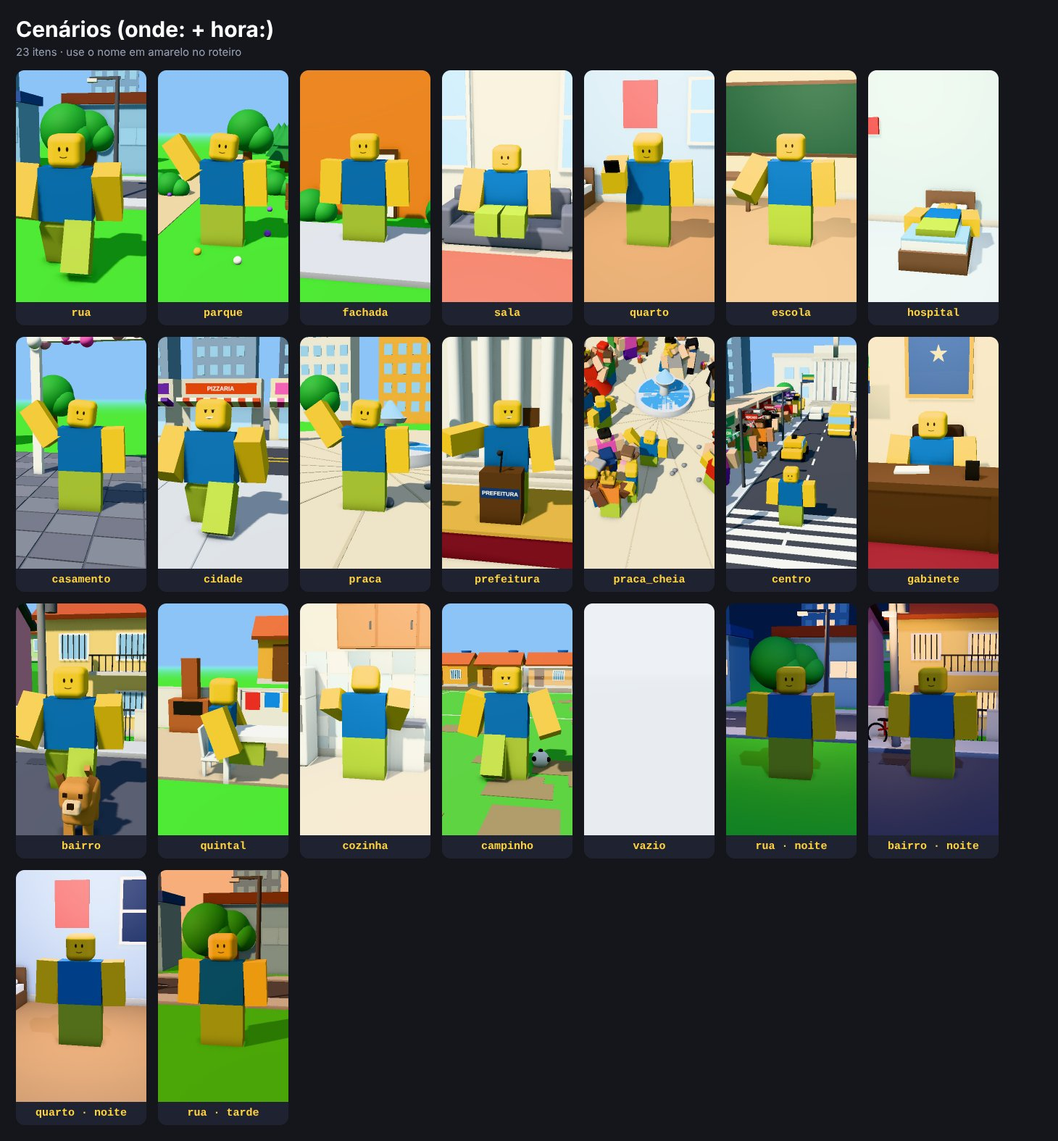
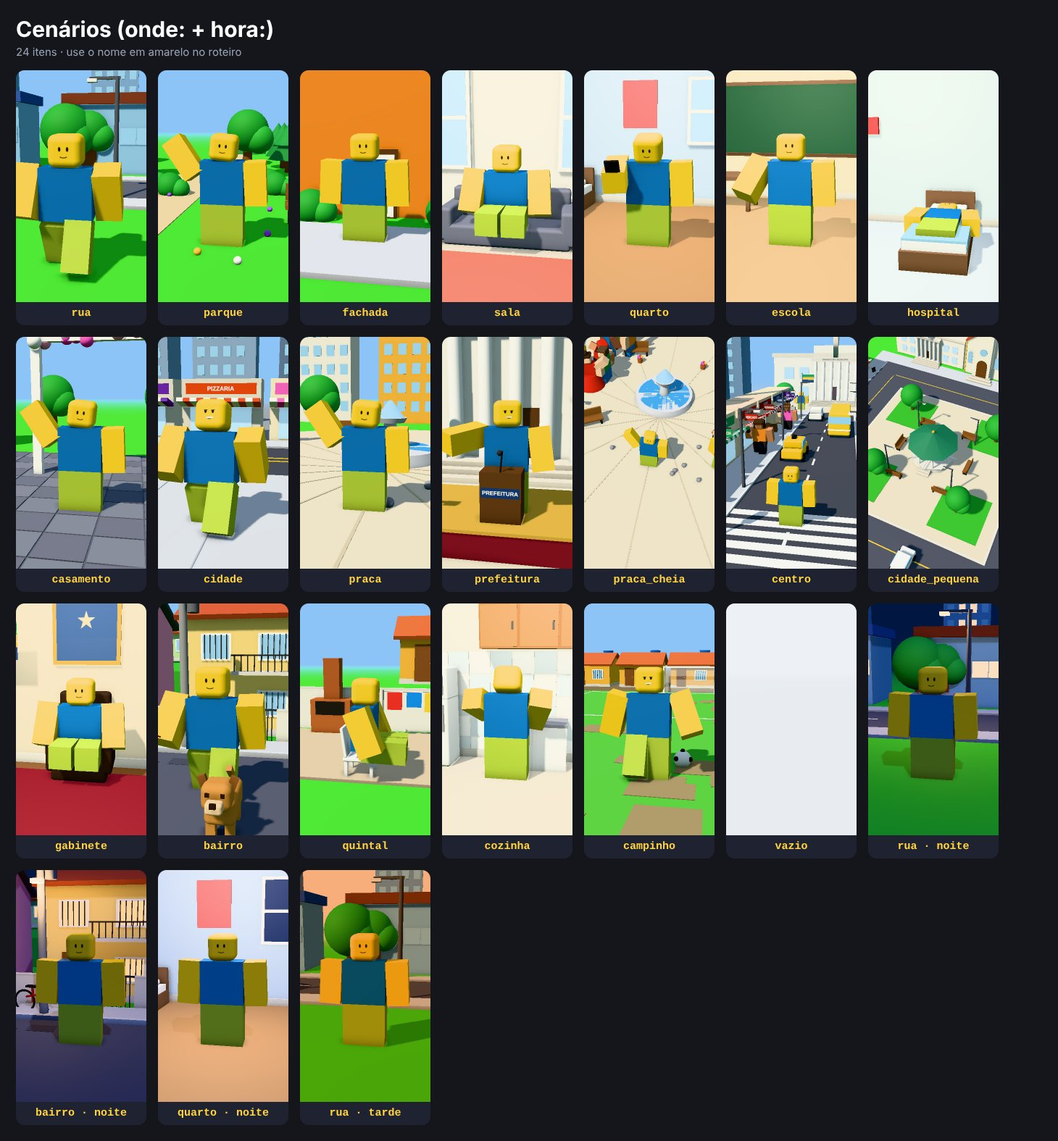
Cidade pequena: prédios próprios, modelo da cidade e locais
- src/motor/cidade.js: farmácia, lotérica, padaria, mercado, banco,
  prefeitura, igreja matriz, escola, posto de saúde, delegacia, bar,
  posto de gasolina e coreto, cada um com fachada e detalhes próprios
- cidade_pequena: praça com coreto no centro, prédios de frente para a
  praça, ruas de saída, casas; local: escolhe onde a cena acontece
  (atalho onde: farmacia), local: vista mostra tudo de cima
- Motor esconde objetos e figurantes entre a câmera e os atores
- Multidão: menos gente e espaçamento mínimo entre pessoas
- Corrige colisão de nome banco (praça) x banco (agência)

Claude-Session: https://claude.ai/code/session_01L9V3oGiK3wXogPFqZJY4DD

Changed region(s): [[0.0, 0.28, 0.9555, 0.9956], [0.5548, 0.28, 0.7705, 0.4667]]

diff --git a/src/motor/cidade.js b/src/motor/cidade.js
@@ -1,0 +1,168 @@
+// Cidade pequena: prédios próprios de cada local + o modelo da cidade que junta todos.
+// Convenção dos prédios: a FACHADA fica em z = 0, olhando para +Z; o corpo do prédio vai para -Z.
+import * as THREE from 'three';
+import { caixa, cilindro, esfera, plano, grupo, mat, rng } from './util.js';
+import { PROPS, placaTexto, registrarProps } from './props.js';
+
+const RAD = Math.PI / 180;
+const vidro = (n, quente = true) => mat(n ? (quente ? '#ffe3a3' : '#cfe8ff') : '#a8dcff', n ? { emissive: quente ? '#ffd27a' : '#bfe0ff', emissiveIntensity: 1.1 } : { rough: 0.12, metal: 0.15 });
+
+/** Bloco base: corpo + barrado + platibanda (o "muro" no alto da fachada, típico de comércio de cidade pequena). */
+function corpo(g, w, h, d, cor, { faixa, barrado = '#d8d4cc', platibanda = true } = {}) {
+  g.add(caixa(w, h, d, cor, { pos: [0, h / 2, -d / 2] }));
+  g.add(caixa(w + 0.06, 0.6, 0.1, barrado, { pos: [0, 0.3, 0.03] }));
+  if (faixa) g.add(caixa(w + 0.06, 0.45, 0.12, faixa, { pos: [0, h - 1.2, 0.04] }));
+  g.add(caixa(w - 0.2, 0.2, d - 0.2, '#8f939c', { pos: [0, h + 0.05, -d / 2] }));                          // laje
+  if (platibanda) { g.add(caixa(w + 0.3, 1.0, 0.3, cor, { pos: [0, h + 0.5, 0.0] }));                         // platibanda na fachada
+    for (const x of [-w / 2, w / 2]) g.add(caixa(0.3, 0.6, d, cor, { pos: [x, h + 0.3, -d / 2] })); g.add(caixa(w + 0.3, 0.15, 0.4, '#ece8de', { pos: [0, h + 1.05, 0] })); }
+  const cx = PROPS.caixa_dagua(); cx.position.set(w / 2 - 1.6, h + 0.15, -d + 1.6); g.add(cx);
+}
+function letreiro(g, texto, w, y, { fundo, cor = '#ffffff', n, h = 1.2 } = {}) { const p = placaTexto(texto, w, h, { fundo, corTexto: cor, emissivo: n }); p.position.set(0, y, 0.2); g.add(p); return p; }
+function vitrine(g, x, w, h, n, quente) { g.add(caixa(w + 0.3, h + 0.3, 0.12, '#ffffff', { pos: [x, 0.6 + h / 2, 0.03] })); g.add(caixa(w, h, 0.14, vidro(n, quente), { pos: [x, 0.6 + h / 2, 0.05], sombra: false })); }
+function portaVidro(g, x, w = 2.4, n) { g.add(caixa(w + 0.3, 3.4, 0.12, '#cfd3da', { pos: [x, 1.7, 0.03] })); g.add(caixa(w, 3.2, 0.14, vidro(n, false), { pos: [x, 1.6, 0.05], sombra: false })); g.add(caixa(0.06, 3.2, 0.16, '#9aa0aa', { pos: [x, 1.6, 0.06] })); }
+function janelaPredio(g, x, y, n, grade = false) { g.add(caixa(2.0, 1.8, 0.12, '#ffffff', { pos: [x, y, 0.03] })); g.add(caixa(1.7, 1.5, 0.14, vidro(n), { pos: [x, y, 0.05], sombra: false }));
+  if (grade) for (let k = -0.6; k <= 0.61; k += 0.4) g.add(caixa(0.05, 1.6, 0.05, '#2b2b2b', { pos: [x + k, y, 0.18] })); }
+function toldo(g, w, y, c1, c2 = '#ffffff') { for (let i = 0; i < Math.round(w / 1.2); i++) g.add(caixa(1.2, 0.3, 2.0, i % 2 ? c2 : c1, { pos: [-w / 2 + 0.6 + i * 1.2, y, 1.0], rot: [-15, 0, 0], sombra: i % 2 === 0 })); }
+function cruz(c, n) { const m = mat(c, { emissive: c, emissiveIntensity: n ? 2 : 0.6 }); return grupo([caixa(0.5, 1.5, 0.25, m), caixa(1.5, 0.5, 0.25, m)]); }
+
+export const PREDIOS = {
+  farmacia: (o = {}) => { const g = grupo([]), n = o.noite; corpo(g, 10, 6, 10, '#f4f6f4', { faixa: '#16a05d' });
+    letreiro(g, o.texto || 'FARMÁCIA', 8.5, 4.9, { fundo: '#16a05d', n }); portaVidro(g, -2.2, 2.6, n); vitrine(g, 2.4, 4, 2.6, n, false);
+    const br = grupo([caixa(0.15, 0.15, 1.6, '#555', { pos: [0, 0, 0.8] })]); const cz = cruz('#1fd16f', n); cz.position.set(0, -0.2, 1.7); br.add(cz); br.position.set(4.6, 4.8, 0); g.add(br);
+    return g; },
+  loterica: (o = {}) => { const g = grupo([]), n = o.noite; corpo(g, 8, 5.5, 9, '#1d4fa0', { faixa: '#f39c12', barrado: '#173f80' });
+    letreiro(g, o.texto || 'LOTÉRICA', 7, 4.5, { fundo: '#f5b800', cor: '#1d3b72', n }); portaVidro(g, 0, 3.2, n);
+    for (const x of [-2.9, 2.9]) vitrine(g, x, 1.6, 2.4, n, false);
+    const cart = placaTexto('SORTE', 1.4, 0.7, { fundo: '#ffffff', corTexto: '#c4281c' }); cart.position.set(2.9, 2.3, 0.2); g.add(cart); return g; },
+  padaria: (o = {}) => { const g = grupo([]), n = o.noite; corpo(g, 10, 6, 10, '#f3d9a4', { faixa: '#8a4a1f' });
+    letreiro(g, o.texto || 'PADARIA', 8.5, 5.0, { fundo: '#8a4a1f', cor: '#ffe9b0', n }); toldo(g, 10, 3.9, '#c4281c');
+    portaVidro(g, -2.5, 2.4, n); vitrine(g, 2.3, 4.2, 2.4, n, true);
+    for (let i = 0; i < 6; i++) g.add(caixa(0.55, 0.3, 0.3, '#d9a25a', { pos: [0.9 + i * 0.6, 1.5, 0.25], round: 0.12 }));   // pães na vitrine
+    const lousa = grupo([caixa(1.2, 1.6, 0.1, '#2b2b2b', { pos: [0, 0.9, 0] }), caixa(0.1, 1.8, 0.1, '#8a5a33', { pos: [-0.55, 0.9, -0.2] })]); lousa.position.set(4, 0, 2.4); lousa.rotation.y = -0.4; g.add(lousa);
+    return g; },
+  mercado: (o = {}) => { const g = grupo([]), n = o.noite; corpo(g, 16, 7, 14, '#f2f3f3', { faixa: '#c4281c' });
+    letreiro(g, o.texto || 'MERCADO', 12, 5.8, { fundo: '#c4281c', n, h: 1.4 }); portaVidro(g, -4.5, 3.4, n); vitrine(g, 2.5, 9, 3.0, n, false);
+    const b = PROPS.barraca({ cor: '#2e9e5b' }); b.position.set(4.5, 0, 3.0); b.scale.setScalar(0.8); g.add(b);
+    for (let i = 0; i < 3; i++) g.add(caixa(1.2, 0.8, 0.8, '#b8875a', { pos: [-7.4, 0.4 + i * 0.82, 1.2] }));
+    return g; },
+  agencia_bancaria: (o = {}) => { const g = grupo([]), n = o.noite; corpo(g, 10, 7, 10, '#b8bcc6', { barrado: '#8c909a' });
+    letreiro(g, o.texto || 'BANCO', 7, 6.0, { fundo: '#1d3b72', n }); portaVidro(g, 0, 3.0, n);
+    for (const x of [-3.8, -1.9, 1.9, 3.8]) g.add(cilindro(0.35, 0.4, 5.2, '#e3e5ea', { pos: [x, 2.6, 0.5], seg: 12 }));
+    const atm = grupo([caixa(1.0, 2.0, 0.6, '#5a5d66', { pos: [0, 1.0, 0] }), plano(0.6, 0.5, mat('#5fb0ff', { emissive: '#3a8fd8', emissiveIntensity: 0.9 }), { pos: [0, 1.5, 0.31] })]);
+    atm.position.set(3.0, 0, 0.35); g.add(atm); return g; },
+  prefeitura: (o = {}) => { const p = PROPS.prefeitura_predio({ noite: o.noite, texto: o.texto }); p.scale.setScalar(0.6); p.position.z = -9.8 * 0.6; return grupo([p]); },
+  igreja: (o = {}) => { const g = grupo([]), n = o.noite, B = o.cor || '#f6f2e6', A = '#e8c25a', w = 12, h = 11, d = 22;
+    g.add(caixa(w, h, d, B, { pos: [0, h / 2, -d / 2 - 1] }));
+    for (const x of [-w / 2, w / 2]) g.add(caixa(0.4, h, 0.4, A, { pos: [x, h / 2, -1] }));
+    const sub = 4.5, sh = new THREE.Shape([new THREE.Vector2(-w / 2 - 0.4, 0), new THREE.Vector2(w / 2 + 0.4, 0), new THREE.Vector2(0, sub)]);
+    const fr = new THREE.Mesh(new THREE.ExtrudeGeometry(sh, { depth: d, bevelEnabled: false }), mat(B)); fr.position.set(0, h, -d - 1); fr.castShadow = fr.receiveShadow = true; g.add(fr);
+    const inc = Math.atan2(sub, w / 2); for (const s of [-1, 1]) g.add(caixa(Math.hypot(w / 2, sub) + 0.8, 0.35, d + 0.6, '#b5533a', { pos: [s * w / 4, h + sub / 2 + 0.15, -d / 2 - 1], rot: [0, 0, -s * inc / RAD] }));
+    g.add(caixa(5, 22, 5, B, { pos: [0, 11, -1.5] })); g.add(caixa(5.4, 0.5, 5.4, A, { pos: [0, 22.2, -1.5] }));
+    const telhadoTorre = cilindro(0, 3.8, 5, '#b5533a', { pos: [0, 25, -1.5], seg: 4 }); telhadoTorre.rotation.y = Math.PI / 4; g.add(telhadoTorre);
+    g.add(caixa(0.3, 2.4, 0.3, A, { pos: [0, 28.6, -1.5] })); g.add(caixa(1.4, 0.3, 0.3, A, { pos: [0, 29.1, -1.5] }));
+    g.add(caixa(2.2, 2.6, 0.2, '#5a3a22', { pos: [0, 17.5, 1.05] })); esferaSino(g);
+    g.add(caixa(3.2, 5.2, 0.2, '#6b4426', { pos: [0, 2.6, 1.05] })); g.add(cilindro(1.6, 1.6, 0.2, '#6b4426', { pos: [0, 5.2, 1.05], rot: [90, 0, 0], seg: 20 }));
+    g.add(cilindro(1.1, 1.1, 0.25, vidro(n), { pos: [0, 9.5, 1.08], rot: [90, 0, 0], seg: 20, sombra: false }));
+    for (const x of [-4.2, 4.2]) { g.add(caixa(1.4, 3.2, 0.12, vidro(n), { pos: [x, 6, 0.0], sombra: false })); g.add(cilindro(0.7, 0.7, 0.12, vidro(n), { pos: [x, 7.6, 0.0], rot: [90, 0, 0], seg: 14, sombra: false })); }
+    for (let i = 0; i < 3; i++) g.add(caixa(8 - i, 0.35, 1.2, '#dcd5c6', { pos: [0, 0.17 + i * 0.35, 2.4 - i * 0.9] }));
+    return g; },
+  escola: (o = {}) => { const g = grupo([]), n = o.noite; const b = grupo([]); corpo(b, 20, 8.4, 10, '#f5e6b8', { faixa: '#1e6fd9' });
+    for (const x of [-7.5, -4.5, 4.5, 7.5]) { janelaPredio(b, x, 2.6, n); janelaPredio(b, x, 6.2, n); }
+    portaVidro(b, 0, 3, n); letreiro(b, o.texto || 'ESCOLA MUNICIPAL', 12, 7.3, { fundo: '#1e6fd9', n }); b.position.z = -4; g.add(b);
+    const m = PROPS.muro({ largura: 24, cor: '#f5e6b8', portao_x: 0, portao_cor: '#1e6fd9', altura: 1.8 }); g.add(m);
+    const ban = PROPS.bandeira({}); ban.position.set(-9, 0, -2); ban.scale.setScalar(0.8); g.add(ban); return g; },
+  posto_saude: (o = {}) => { const g = grupo([]), n = o.noite; corpo(g, 14, 5.2, 10, '#ffffff', { faixa: '#1e88e5' });
+    letreiro(g, o.texto || 'POSTO DE SAÚDE', 10, 4.2, { fundo: '#1e88e5', n }); portaVidro(g, 0, 3, n);
+    for (const x of [-4.6, 4.6]) janelaPredio(g, x, 2.2, n, true);
+    const cz = cruz('#e53935', n); cz.position.set(-6, 4.2, 0.2); g.add(cz);
+    const bc = PROPS.banco({}); bc.position.set(4.8, 0, 1.6); bc.scale.setScalar(0.8); g.add(bc); return g; },
+  delegacia: (o = {}) => { const g = grupo([]), n = o.noite; corpo(g, 12, 6, 10, '#e9ebef', { faixa: '#1d3b72', barrado: '#5a5d66' });
+    letreiro(g, o.texto || 'DELEGACIA', 9, 4.9, { fundo: '#1d3b72', n }); portaVidro(g, 0, 2.6, n);
+    for (const x of [-4, 4]) janelaPredio(g, x, 2.3, n, true);
+    const ban = PROPS.bandeira({}); ban.position.set(5.5, 0, 1.5); ban.scale.setScalar(0.7); g.add(ban); return g; },
+  bar: (o = {}) => { const g = grupo([]), n = o.noite; corpo(g, 9, 4.6, 8, '#f5cd30', { faixa: '#c4281c', platibanda: false });
+    letreiro(g, o.texto || 'BAR DO ZÉ', 7.5, 3.8, { fundo: '#c4281c', n, h: 1.0 });
+    g.add(caixa(5.5, 2.9, 0.14, mat(n ? '#7a5a2a' : '#2a2018', n ? { emissive: '#ffb84a', emissiveIntensity: 0.6 } : {}), { pos: [-0.8, 1.45, 0.04], sombra: false }));
+    g.add(caixa(5.7, 0.3, 0.3, '#9aa0aa', { pos: [-0.8, 3.0, 0.1] }));
+    for (const [x, z] of [[-2.8, 2.6], [1.8, 2.8]]) { const m = PROPS.mesa({ largura: 2.2, cor: '#f2f3f3' }); m.position.set(x, 0, z); m.scale.setScalar(0.75); g.add(m);
+      for (const s of [-1, 1]) { const c = PROPS.cadeira_plastico({}); c.position.set(x + s * 1.6, 0, z); c.rotation.y = -s * Math.PI / 2; c.scale.setScalar(0.8); g.add(c); } }
+    for (let i = 0; i < 2; i++) g.add(caixa(1.0, 0.7, 0.7, '#e53935', { pos: [3.6, 0.35 + i * 0.72, 0.6] })); return g; },
+  posto_gasolina: (o = {}) => { const g = grupo([]), n = o.noite;
+    const loja = grupo([]); corpo(loja, 8, 4, 6, '#ffffff', { faixa: '#e53935' }); letreiro(loja, 'CONVENIÊNCIA', 6, 3.2, { fundo: '#e53935', n, h: 0.8 }); portaVidro(loja, 0, 2.4, n);
+    loja.position.set(0, 0, -10); g.add(loja);
+    g.add(caixa(16, 0.9, 10, '#f2f3f3', { pos: [0, 5.8, -2] })); g.add(caixa(16.1, 0.4, 10.1, '#e53935', { pos: [0, 5.5, -2] }));
+    for (const x of [-6.5, 6.5]) for (const z of [-5.5, 1.5]) g.add(caixa(0.6, 5.4, 0.6, '#d8dde3', { pos: [x, 2.7, z] }));
+    for (const x of [-3, 3]) { g.add(caixa(1.4, 0.3, 3.4, '#bfc2ca', { pos: [x, 0.15, -2] })); g.add(caixa(0.9, 2.2, 0.6, '#e53935', { pos: [x, 1.4, -2] }));
+      g.add(plano(0.6, 0.4, mat('#111', { emissive: '#2dff6a', emissiveIntensity: 0.6 }), { pos: [x, 1.9, -1.69] })); }
+    const tot = grupo([caixa(0.4, 7, 0.4, '#888', { pos: [0, 3.5, 0] }), caixa(2.6, 3.6, 0.4, '#e53935', { pos: [0, 7.4, 0] })]);
+    const preco = placaTexto('POSTO', 2.3, 0.8, { fundo: '#ffffff', corTexto: '#e53935', emissivo: n }); preco.position.set(0, 8.4, 0.21); tot.add(preco);
+    const p2 = placaTexto('R$ 5,99', 2.3, 0.7, { fundo: '#111', corTexto: '#ffd23f', emissivo: true }); p2.position.set(0, 7.2, 0.21); tot.add(p2);
+    tot.position.set(9.5, 0, 2); g.add(tot); return g; },
+  coreto: (o = {}) => { const g = grupo([cilindro(5, 5.2, 1.2, '#e9e6dc', { pos: [0, 0.6, 0], seg: 8 }), cilindro(5.3, 5.3, 0.2, '#d8d4cc', { pos: [0, 1.25, 0], seg: 8 })]);
+    for (let i = 0; i < 8; i++) { const a = (i + 0.5) / 8 * Math.PI * 2; g.add(cilindro(0.18, 0.18, 4.5, '#ffffff', { pos: [Math.sin(a) * 4.5, 3.5, Math.cos(a) * 4.5] }));
+      if (i !== 0) g.add(caixa(3.4, 0.15, 0.15, '#ffffff', { pos: [Math.sin(a + 0.39) * 4.4, 2.3, Math.cos(a + 0.39) * 4.4], rot: [0, (a + 0.39) / RAD + 90, 0] })); }
+    const tel = cilindro(0, 6.2, 3.2, o.cor || '#2e7d5b', { pos: [0, 7.3, 0], seg: 8 }); g.add(tel); g.add(esfera(0.35, '#e0b040', { pos: [0, 9.0, 0] }));
+    for (let i = 0; i < 3; i++) g.add(caixa(3, 0.3, 0.9, '#dcd5c6', { pos: [0, 0.15 + i * 0.3, 5.9 - i * 0.6] })); return g; },
+};
+function esferaSino(g) { g.add(cilindro(0.5, 0.9, 1.2, '#c9a24a', { pos: [0, 17.4, 0.4], seg: 14, mat: { metal: 0.7, rough: 0.3 } })); }
+registrarProps(PREDIOS);
+export const NOMES_PREDIOS = Object.keys(PREDIOS);
+
+// ---------------- o modelo da cidade ----------------
+// Praça (com coreto) no centro, anel de ruas em volta, prédios de frente para a praça, saídas leste/oeste.
+// rot = para onde a fachada olha (0 = +Z, 90 = +X, 180 = -Z, -90 = -X). f = posição da fachada (x, z).
+const F = 34.5; // distância da fachada ao centro
+export const LOTES = [
+  { id: 'prefeitura', tipo: 'prefeitura', f: [-19, -F], rot: 0 },
+  { id: 'igreja', tipo: 'igreja', f: [0, -F - 1], rot: 0 },
+  { id: 'banco', tipo: 'agencia_bancaria', f: [19, -F], rot: 0 },
+  { id: 'escola', tipo: 'escola', f: [-15, F], rot: 180 },
+  { id: 'posto_saude', tipo: 'posto_saude', f: [15, F], rot: 180 },
+  { id: 'padaria', tipo: 'padaria', f: [-F, -20], rot: 90 },
+  { id: 'farmacia', tipo: 'farmacia', f: [-F, -9], rot: 90 },
+  { id: 'loterica', tipo: 'loterica', f: [-F, 10], rot: 90 },
+  { id: 'bar', tipo: 'bar', f: [-F, 20.5], rot: 90 },
+  { id: 'mercado', tipo: 'mercado', f: [F, -16], rot: -90 },
+  { id: 'delegacia', tipo: 'delegacia', f: [F, 13], rot: -90 },
+  { id: 'posto_gasolina', tipo: 'posto_gasolina', f: [52, 7.5], rot: 180 },
+];
+/** Locais onde uma cena pode acontecer: frente de cada prédio + praça/coreto + vista geral. */
+export const LOCAIS = [...LOTES.map(l => l.id), 'praca_central', 'coreto', 'vista'];
+const PONTOS_EXTRA = { praca_central: { f: [0, 8], rot: 0, recuo: 2 }, coreto: { f: [0, 6], rot: 0, recuo: 3.5 } };
+
+export function construirCidade(o, g, r) {
+  const n = o.hora === 'noite';
+  g.add(caixa(600, 0.2, 600, '#4ccd3d', { pos: [0, -0.1, 0] }));
+  g.add(caixa(72, 0.2, 72, '#c3c7cf', { pos: [0, 0.1, 0] }));                                    // calçadas externas
+  g.add(caixa(62, 0.2, 62, '#4f5361', { pos: [0, 0.11, 0] }));                                   // anel de ruas
+  for (const s of [-1, 1]) { g.add(caixa(140, 0.2, 10, '#4f5361', { pos: [s * 100, 0.11, 0] })); g.add(caixa(140, 0.2, 3, '#c3c7cf', { pos: [s * 100, 0.1, -6.5] })); g.add(caixa(140, 0.2, 3, '#c3c7cf', { pos: [s * 100, 0.1, 6.5] })); }
+  for (const [x, z, w, d] of [[0, -25.5, 50, 0.25], [0, 25.5, 50, 0.25], [-25.5, 0, 0.25, 50], [25.5, 0, 0.25, 50]]) g.add(caixa(w, 0.03, d, '#f5cd30', { pos: [x, 0.22, z], sombra: false }));
+  g.add(caixa(41, 0.4, 41, '#d8d4cc', { pos: [0, 0.2, 0] })); g.add(caixa(40, 0.42, 40, '#d6cdb8', { pos: [0, 0.21, 0] }));   // praça elevada com meio-fio
+  for (const [x, z] of [[-12, -12], [12, -12], [-12, 12], [12, 12]]) { g.add(caixa(11, 0.5, 11, '#3fae3a', { pos: [x, 0.25, z] }));
+    const a = PROPS.arvore({ tam: r.entre(1, 1.3) }); a.position.set(x + r.entre(-2, 2), 0.4, z + r.entre(-2, 2)); g.add(a); }
+  const cor = PREDIOS.coreto({}); cor.position.set(0, 0.4, 0); g.add(cor);
+  for (const [x, z, v] of [[-6, 9, 180], [6, 9, 180], [-6, -9, 0], [6, -9, 0], [-9, 0, 90], [9, 0, -90]]) { const b = PROPS.banco({}); b.position.set(x, 0.4, z); b.rotation.y = v * RAD; g.add(b); }
+  for (const [x, z] of [[-8, -8], [8, -8], [-8, 8], [8, 8]]) { const p = PROPS.poste({ noite: n }); p.position.set(x, 0.4, z); p.rotation.y = x < 0 ? 0 : Math.PI; g.add(p); }
+  for (const l of LOTES) { const p = PREDIOS[l.tipo]({ noite: n }); p.position.set(l.f[0], 0.2, l.f[1]); p.rotation.y = l.rot * RAD; g.add(p); }
+  // casas nas saídas e atrás dos prédios
+  const cores = ['#f0b446', '#8fc1e3', '#f2a7c3', '#b7e1a1', '#e9e6dc', '#f28b5b', '#c9b2e8', '#ffe08a'];
+  for (const s of [-1, 1]) for (let x = 48; x <= 140; x += 12) for (const lado of [-1, 1]) {
+    if (s > 0 && x < 70) continue; // espaço do posto de gasolina (e da câmera em frente a ele)
+    const c = PROPS[r() < 0.3 ? 'sobrado' : 'casa_br']({ cor: r.item(cores), noite: n, largura: 8.5 }); c.position.set(s * x, 0, lado * 9); c.rotation.y = lado > 0 ? Math.PI : 0; g.add(c);
+    const m = PROPS.muro({ largura: 11, cor: '#e9e6dc', portao_x: r.entre(-2, 2) }); m.position.set(s * x, 0, lado * 8.4); m.rotation.y = c.rotation.y; g.add(m); }
+  for (const z of [-1, 1]) for (let x = -60; x <= 60; x += 11) { const c = PROPS[r() < 0.3 ? 'sobrado' : 'casa_br']({ cor: r.item(cores), noite: n, largura: 8 }); c.position.set(x + r.entre(-1, 1), 0, z * 62); c.rotation.y = z > 0 ? Math.PI : 0; g.add(c); }
+  for (const sx of [-1, 1]) for (let x = 40; x <= 130; x += 15) { const p = PROPS.poste_fios({ noite: n }); p.position.set(sx * x, 0, -5.6); g.add(p); }
+  for (const [x, z, v, c] of [[-27, -6, 0, '#c4281c'], [27, 22, 180, '#1d3b72'], [6, 27, 90, '#f2f3f3']]) { const k = PROPS.carro({ cor: c }); k.position.set(x, 0.2, z); k.rotation.y = v * RAD; g.add(k); }
+  const vt = PROPS.viatura(); vt.position.set(31.5, 0.2, 8); vt.rotation.y = 0; g.add(vt);
+  g.add(caixa(300, 14, 60, '#3fae3a', { pos: [0, 0, -150] })); g.add(caixa(300, 20, 60, '#38a034', { pos: [0, 0, 170] }));    // morros
+}
+
+/** Move a cidade para que o local escolhido fique na origem (atores) com a fachada atrás (-Z) e a câmera em +Z. */
+export function enquadrarLocal(g, local) {
+  if (!local || local === 'vista') return;
+  const l = LOTES.find(x => x.id === local) || PONTOS_EXTRA[local]; if (!l) return;
+  const rr = l.rot * RAD, recuo = l.recuo ?? 3.2;
+  const sx = l.f[0] + Math.sin(rr) * recuo, sz = l.f[1] + Math.cos(rr) * recuo;   // ponto na calçada em frente à fachada
+  const th = -rr; g.rotation.y = th;
+  g.position.set(-(sx * Math.cos(th) + sz * Math.sin(th)), 0, -(-sx * Math.sin(th) + sz * Math.cos(th)));
+}

diff --git a/src/motor/main.js b/src/motor/main.js
@@ -65,9 +65,10 @@ function posNoTempo(a, t) { // posição da raiz do ator no tempo t (sem tocar n
 async function montar(c) {
   if (atual) { cena.remove(atual.raiz); }
   const raiz = new THREE.Group(); cena.add(raiz);
-  const cen = construirCenario(c.cenario, { hora: c.hora, seed: c.seed, cor: c.cor, chao: c.chao, parede: c.parede, tela: c.tela, texto: c.texto, texto_palanque: c.texto_palanque, palanque: c.palanque });
+  const cen = construirCenario(c.cenario, { local: c.local, hora: c.hora, seed: c.seed, cor: c.cor, chao: c.chao, parede: c.parede, tela: c.tela, texto: c.texto, texto_palanque: c.texto_palanque, palanque: c.palanque });
   raiz.add(cen.grupo);
   cena.background = cor(cen.ceu); cena.fog = new THREE.Fog(cor(cen.ceu), cen.nevoa[0], cen.nevoa[1]);
+  const sr = cen.sombra || 35; Object.assign(sol.shadow.camera, { left: -sr, right: sr, top: sr, bottom: -sr, far: 120 + sr * 2 }); sol.shadow.camera.updateProjectionMatrix();
   sol.color = cor(cen.sol.cor); sol.intensity = cen.sol.forca; hemi.color = cor(cen.hemi[0]); hemi.groundColor = cor(cen.hemi[1]); hemi.intensity = cen.hemi[2];
   for (const p of c.props || []) { const o = criarProp(p); if (o) raiz.add(o); }
   await carregarRostosPersonalizados((c.atores || []).flatMap(a => [a.rosto, a.spec?.rosto]).filter(Boolean));
@@ -84,6 +85,7 @@ async function montar(c) {
   const prin = atores.filter(a => !a.figurante).map(a => a.base.x);
   const xs = prin; const espalha = xs.length > 1 ? Math.max(...xs) - Math.min(...xs) : 0;
   atual = { c, raiz, atores, cen, dur: c.dur, espalha, nquadros: Math.max(1, Math.round(c.dur * cfg.fps)) };
+  liberarVisao();
   posar(0); // garante shaders compilados antes do 1º quadro
   R.compile(cena, cam);
   return atual.nquadros;
@@ -109,18 +111,22 @@ function criarMultidao(m, seed) {
   const acoes = [].concat(m.acao || (modo === 'grupos' ? CONVERSA : modo === 'passantes' ? ['andar', 'andar', 'andar_celular', 'passear_cachorro', 'andar'] : ['parado', 'palmas', 'acenar', 'comemorar']));
   const specs = [...(m.specs || [])].sort(() => r() - 0.5);
   const evitar = (x, z) => Math.hypot(x, z) < livre || (m.evitar || []).some(([ex, ez, er]) => Math.hypot(x - ex, z - ez) < er);
-  const ponto = () => { for (let k = 0; k < 40; k++) { const x = r.entre(x0, x1), z = r.entre(z0, z1); if (!evitar(x, z)) return [x, z]; } return [r.entre(x0, x1), r.entre(z0, z1)]; };
+  const ocupados = []; const minimo = m.espaco ?? (modo === 'grupos' ? 7 : 2.8);
+  const livreDe = (x, z) => ocupados.every(([ox, oz]) => Math.hypot(x - ox, z - oz) >= minimo);
+  const ponto = () => { for (let k = 0; k < 80; k++) { const x = r.entre(x0, x1), z = r.entre(z0, z1); if (!evitar(x, z) && livreDe(x, z)) { ocupados.push([x, z]); return [x, z]; } } return null; };
   // posições conforme o modo
   const lugares = [];
   if (modo === 'grupos') {
-    while (lugares.length < n) { const [cx, cz] = ponto(); const k = Math.min(n - lugares.length, 2 + Math.floor(r() * 3)); const g0 = r() * 6.28;
+    while (lugares.length < n) { const pt = ponto(); if (!pt) break; const [cx, cz] = pt; const k = Math.min(n - lugares.length, 2 + Math.floor(r() * 3)); const g0 = r() * 6.28;
       for (let j = 0; j < k; j++) { const a = g0 + j / k * 6.28 + r.entre(-0.3, 0.3), rr = k === 2 ? 1.5 : 2.0;
         const x = cx + Math.sin(a) * rr, z = cz + Math.cos(a) * rr; lugares.push({ x, z, vira: Math.atan2(cx - x, cz - z) * 180 / Math.PI }); } }
   } else if (modo === 'passantes') {
     for (let i = 0; i < n; i++) { const lado = r() < 0.5 ? -1 : 1, faixa = m.faixas || [[x0, x0 + 2.5], [x1 - 2.5, x1]];
-      const fx = faixa[lado < 0 ? 0 : 1]; lugares.push({ x: r.entre(fx[0], fx[1]), z: r.entre(z0, z1), vira: r() < 0.5 ? 0 : 180, vel: r.entre(3, 5.5) }); }
+      const fx = faixa[lado < 0 ? 0 : 1]; let ok = null;
+      for (let k = 0; k < 40 && !ok; k++) { const x = r.entre(fx[0], fx[1]), z = r.entre(z0, z1); if (livreDe(x, z)) { ok = [x, z]; ocupados.push(ok); } }
+      if (ok) lugares.push({ x: ok[0], z: ok[1], vira: r() < 0.5 ? 0 : 180, vel: r.entre(3, 5.5) }); }
   } else {
-    for (let i = 0; i < n; i++) { const [x, z] = ponto(); lugares.push({ x, z, vira: m.vira ?? (Math.atan2(-x, (m.olhar_z ?? 0) - z) * 180 / Math.PI) + r.entre(-10, 10) }); }
+    for (let i = 0; i < n; i++) { const pt = ponto(); if (!pt) break; const [x, z] = pt; lugares.push({ x, z, vira: m.vira ?? (Math.atan2(-x, (m.olhar_z ?? 0) - z) * 180 / Math.PI) + r.entre(-10, 10) }); }
   }
   return lugares.slice(0, n).map((L, i) => {
     const spec = specs.length && (i < specs.length) && r() < (m.mistura ?? 0.8) ? { ...specs[i], id: 'fig' + i } : specAleatorio(r, i);
@@ -154,7 +160,38 @@ function posar(t) {
   const camC = atual.cen.cameraFixa ? { camera: 'detalhe', mov: c.mov || 'zoom_in', angulo: 0, dist: c.dist || 3.1 } : c;
   posicionarCamera(cam, camC, t, dur, alvo, atores.length && !c.foco ? atual.espalha : 0);
   const foco = alvo(t); const d = new THREE.Vector3(...atual.cen.sol.dir).normalize();
-  sol.target.position.copy(foco); sol.position.copy(foco).addScaledVector(d, 80); sol.target.updateMatrixWorld();
+  sol.target.position.copy(foco); sol.position.copy(foco).addScaledVector(d, 60 + (atual.cen.sombra || 35)); sol.target.updateMatrixWorld();
+}
+
+/**
+ * Esconde objetos do cenário que ficariam entre a câmera e os atores (árvores, postes, caixas d'água, paredes de prédio...).
+ * Testa alguns instantes da cena e vários pontos de cada ator. Chão, ruas e paredes de salas (objetos enormes) nunca são escondidos.
+ */
+function liberarVisao() {
+  const alvos = atual.atores.filter(a => !a.figurante); if (!alvos.length || atual.cen.cameraFixa || atual.c.liberar_visao === false) return;
+  const raizCen = atual.cen.grupo, rc = new THREE.Raycaster(), caixa = new THREE.Box3(), tam = new THREE.Vector3(), escondidos = new Set();
+  const topo = (o) => { while (o.parent && o.parent !== raizCen) o = o.parent; return o.parent === raizCen ? o : null; };
+  for (const t of [0, atual.dur * 0.5, atual.dur]) {
+    posar(t); cena.updateMatrixWorld(true);
+    for (const o of raizCen.children) { // objetos colados na lente (copas de árvore, postes) também saem
+      if (escondidos.has(o)) continue; caixa.setFromObject(o).getSize(tam);
+      if (Math.max(tam.x, tam.z) <= 45 && caixa.distanceToPoint(cam.position) < 3.5) { o.visible = false; escondidos.add(o); }
+    }
+    for (const a of alvos) {
+      a.ator.raiz.updateMatrixWorld(true); const base = a.ator.raiz.getWorldPosition(new THREE.Vector3());
+      for (const [dx, dy] of [[0, 4.6], [0, 3], [0, 1], [-1.2, 3], [1.2, 3]]) {
+        const p = base.clone().add(new THREE.Vector3(dx, dy, 0)), dir = p.clone().sub(cam.position), dist = dir.length();
+        rc.set(cam.position, dir.normalize()); rc.far = dist - 0.6;
+        for (const f of atual.atores) if (f.figurante && f.ator.raiz.visible && rc.intersectObject(f.ator.raiz, true).length) { f.ator.raiz.visible = false; if (f.pet) f.pet.visible = false; } // figurante na frente do ator principal
+        for (const h of rc.intersectObject(raizCen, true)) {
+          const o = topo(h.object); if (!o || escondidos.has(o)) continue;
+          caixa.setFromObject(o).getSize(tam); if (Math.max(tam.x, tam.z) > 45) continue;   // chão/rua/parede gigante: mantém
+          if (caixa.containsPoint(base)) continue;                                          // o ator está dentro (ex.: sala, palco)
+          o.visible = false; escondidos.add(o);
+        }
+      }
+    }
+  }
 }
 
 function quadro(f, formato = 'image/jpeg', q = 0.93) {
@@ -185,5 +222,6 @@ async function preview() {
   tocar(0);
 }
 
-window.motor = { iniciar, montar, quadro, quadros, preview, pronto: true };
+window.motor = { iniciar, montar, quadro, quadros, preview, pronto: true, depurar: () => { const rc = new THREE.Raycaster(); rc.setFromCamera(new THREE.Vector2(0, 0), cam); const h = rc.intersectObjects(cena.children, true).slice(0, 3);
+  return { camera: cam.position.toArray().map(v => +v.toFixed(2)), toques: h.map(x => ({ d: +x.distance.toFixed(2), cor: x.object.material?.color?.getHexString?.(), geo: x.object.geometry?.parameters, pos: x.object.getWorldPosition(new THREE.Vector3()).toArray().map(v => +v.toFixed(1)) })) }; } };
 if (new URLSearchParams(location.search).has('preview')) preview();

diff --git a/src/motor/cenarios.js b/src/motor/cenarios.js
@@ -4,6 +4,7 @@
 import * as THREE from 'three';
 import { caixa, cilindro, esfera, plano, grupo, mat, cor, rng, canvas, texturaCanvas } from './util.js';
 import { PROPS, placaTexto } from './props.js';
+import { construirCidade, enquadrarLocal } from './cidade.js';
 
 const CEU = { dia: '#8ec9ff', tarde: '#ffb27a', noite: '#0e1a3a' };
 function ambiente(hora, interno = false) {
@@ -223,6 +224,7 @@ export const CENARIOS = {
     add(g, 'semaforo', { luz: 'verde' }, [-6.8, 0, 5.5]);
     if (!n) nuvens(g, r); else lua(g);
   },
+  cidade_pequena(o, g, r) { construirCidade(o, g, r); },   // modelo da cidade inteira (use `local:` para escolher onde a cena acontece)
   gabinete(o, g, r) { // escritório do prefeito
     const n = o.hora === 'noite'; sala(g, { parede: o.parede || '#e9dcc4', chao: o.chao || '#7a5236' });
     g.add(caixa(10, 0.05, 7, '#7b1f2b', { pos: [0, 0.03, -3], sombra: false }));
@@ -312,9 +314,11 @@ export function construirCenario(nome, o = {}) {
   const fn = CENARIOS[nome] || CENARIOS.vazio;
   const g = new THREE.Group(); const r = rng(o.seed ?? nome);
   fn(o, g, r);
+  if (nome === 'cidade_pequena') enquadrarLocal(g, o.local);
   g.traverse(m => { if (m.isMesh) { m.receiveShadow = true; if (m.castShadow === undefined) m.castShadow = true; } });
   const amb = ambiente(o.hora || 'dia', INTERNOS.has(nome));
   if (nome === 'celular') { amb.ceu = o.cor || '#6b7a99'; amb.nevoa = [200, 400]; }
   if (nome === 'vazio') { amb.ceu = o.cor || '#eef1f6'; amb.nevoa = [60, 140]; }
+  if (nome === 'cidade_pequena') { amb.nevoa = [120, 520]; amb.sombra = (!o.local || o.local === 'vista') ? 120 : 50; }
   return { grupo: g, ...amb, ancoras: g.userData.ancoras || {}, interno: INTERNOS.has(nome), cameraFixa: nome === 'celular' };
 }

diff --git a/src/motor/props.js b/src/motor/props.js
@@ -197,6 +197,10 @@ export const PROPS = {
   lombada: () => grupo([caixa(8, 0.25, 1.6, '#f5cd30', { pos: [0, 0.1, 0], round: 0.1 })]),
 };
 export const NOMES_PROPS = Object.keys(PROPS);
+/** Outros módulos (ex.: cidade.js) registram props aqui; a lista de nomes acompanha. */
+export function registrarProps(obj) {
+  for (const k of Object.keys(obj)) if (PROPS[k]) throw new Error(`prop "${k}" já existe: escolha outro nome`);
+  Object.assign(PROPS, obj); NOMES_PROPS.splice(0, NOMES_PROPS.length, ...Object.keys(PROPS)); }
 
 /** Casa brasileira: telhado de telha em duas águas, grade na janela, caixa d'água opcional. andares = 1 ou 2. */
 function casaBR(o, andares) {

diff --git a/docs/ROTEIRO.md b/docs/ROTEIRO.md
@@ -26,12 +26,32 @@ cenas:                     # 1 cena = 1 corte (~1–2 s, 3–7 palavras)
 
 > Se a fala tiver `:` ou começar com aspas, coloque a fala entre aspas: `fala: "Ele disse: corre!"`
 
+## Cidade pequena (recomendado: tudo acontece na mesma cidade)
+
+`cidade_pequena` é um modelo de cidade de interior com praça e coreto no centro, igreja matriz e prefeitura de frente para a praça,
+comércio em volta, ruas de saída, casas e posto de gasolina. Cada cena escolhe **onde** dentro dessa cidade:
+
+```yaml
+- onde: farmacia            # atalho = onde: cidade_pequena + local: farmacia
+  atores: [idosa acenar]
+- onde: cidade_pequena
+  local: vista              # a cidade inteira vista de cima
+  cam: alto
+  dist: 6
+  mov: orbita
+```
+
+**Locais:** prefeitura, igreja, banco, escola, posto_saude, padaria, farmacia, loterica, bar, mercado, delegacia, posto_gasolina, praca_central, coreto, vista
+(`prefeitura` e `escola` sozinhos continuam sendo os cenários grandes antigos; para a versão da cidade pequena use `onde: cidade_pequena` + `local: prefeitura`).
+O ator fica na calçada, em frente à fachada, e a câmera de frente para o prédio. Cenas seguidas sem `onde:` continuam no mesmo local.
+O motor esconde sozinho o que ficar entre a câmera e os atores (postes, árvores, figurantes); use `liberar_visao: false` para desligar.
+
 ## Campos da cena
 
 | campo | valores | padrão |
 |---|---|---|
 | `fala` | texto narrado e legendado | — (sem fala = só imagem, use `dur`) |
-| `onde` | rua, parque, fachada, sala, quarto, escola, hospital, casamento, cidade, praca, **praca_cheia**, prefeitura, gabinete, **centro**, bairro, quintal, cozinha, campinho, celular, vazio | cena anterior / rua |
+| `onde` | rua, parque, fachada, sala, quarto, escola, hospital, casamento, **cidade_pequena** (+ `local`), cidade, praca, praca_cheia, prefeitura, gabinete, centro, bairro, quintal, cozinha, campinho, celular, vazio | cena anterior / rua |
 | `hora` | dia, tarde, noite | cena anterior / dia |
 | `cam` | detalhe, close, medio, aberto, geral, baixo, alto, lado, costas | alterna |
 | `mov` | fixo, zoom_in, zoom_out, zoom_rapido, pan, orbita, tremor, seguir, subir, descer | zoom_in |
@@ -80,7 +100,7 @@ multidao: { n: 10, acao: [bravo, parado], prop: cartaz, prop_texto: ["FORA!", "Q
 `modo`: `espalhado` (padrão), `grupos` (rodinhas de 2 a 4 pessoas conversando, viradas umas para as outras) ou `passantes` (andando nas calçadas, alguns no celular ou com cachorro).
 `personagens: todos` (ou uma lista, ex.: `[prefeito, gari, vizinha_fofoqueira]`) usa personagens do elenco na multidão; o resto é gerado.
 
-**Cenários que já vêm com multidão:** `praca_cheia` (~32 pessoas em rodinhas em volta da fonte) e `centro` (pedestres nas calçadas da avenida, com padaria, farmácia, mercado, banco… dos lados e a prefeitura no fim). Use `multidao: false` para esvaziar ou `multidao: { n: 40 }` para mudar.
+**Cenários que já vêm com multidão:** `praca_cheia` (~10 pessoas em rodinhas em volta da fonte) e `centro` (pedestres nas calçadas da avenida, com padaria, farmácia, mercado, banco… dos lados e a prefeitura no fim). Use `multidao: false` para esvaziar ou `multidao: { n: 40 }` para mudar.
 Dica: em vídeo vertical, para mostrar muita gente use `cam: alto` + `dist: 2.8` (praça) ou `cam: geral` + `altura: 4` (centro).
 
 `n` (até 40), `area: [x_min, x_max, z_min, z_max]`, `olhar_z` (todos olham para esse ponto em z), `acao` (sorteada entre as da lista), `prop`/`prop_texto`, `rosto`. Figurantes não precisam de elenco, e a câmera não os usa para enquadrar. Para mostrar a multidão inteira, use `cam: geral`.
@@ -128,6 +148,7 @@ Campos: `pele, camisa, calca, rosto, extras, acessorios, roupa, cabelo_cor, esca
 
 arvore, pinheiro, arbusto, casa, predio, poste, carro, banco, mesa, carteira, cadeira, cama, sofa, tv, computador, planta, presente, caixa_correio, cerca, porta, caixao, bolo,
 semaforo (`luz: verde`), onibus (`texto`), taxi, viatura, hidrante, lixeira, faixa_pedestre, loja (`texto`, `cor`), arranha_ceu, fonte, estatua (`texto`), bandeira (`cores`), palanque (`texto`), barraca, outdoor (`texto`), mesa_escritorio, poltrona, estante, quadro_parede (`texto`),
+**prédios da cidade pequena (fachada em z=0):** farmacia, loterica, padaria, mercado, agencia_bancaria, prefeitura, igreja, escola, posto_saude, delegacia, bar, posto_gasolina, coreto (todos aceitam `texto` para trocar o letreiro),
 casa_br / sobrado (`cor`, `telhado`, `grade: false`, `caixa_dagua: false`), muro (`largura`, `cor`, `portao_x`, `portao: false`), portao, cerca_viva, caixa_dagua, poste_fios, churrasqueira, piscina, varal, casinha_cachorro, cachorro / gato (`cor`), bicicleta, moto (`bau: true`), balanco, escorregador, trave, bola, geladeira, fogao, pia, armario, mesa_jantar, cadeira_plastico, saco_lixo, vaso_flor, lombada
 
 ## Música

diff --git a/CLAUDE.md b/CLAUDE.md
@@ -11,7 +11,7 @@ Pipeline: roteiro YAML → voz (ElevenLabs via .env; Piper/espeak como alternati
 - Personagem: só YAML em `assets/personagens.yaml` (herança com `base:`).
 - Rosto: função em `src/motor/rostos.js` (EXPRESSOES) ou PNG em `assets/rostos/`.
 - Ação: função em `src/motor/acoes.js` (pura, sem three.js). Acessório: `src/motor/personagem.js` (ACESSORIOS).
-- Cenário: `src/motor/cenarios.js` (CENARIOS). Prop: `src/motor/props.js`. Câmera: `src/motor/camera.js`.
+- Cenário: `src/motor/cenarios.js` (CENARIOS). Cidade pequena (prédios, LOTES, LOCAIS): `src/motor/cidade.js`. Prop: `src/motor/props.js`. Câmera: `src/motor/camera.js`.
 - Depois de criar/alterar assets: `node ferramentas/preview_assets.mjs [categoria]` atualiza `docs/preview/*.jpg`.
 - Os catálogos/validação são gerados a partir desses objetos — não há lista duplicada para manter. Atualize `docs/ROTEIRO.md`.
 
